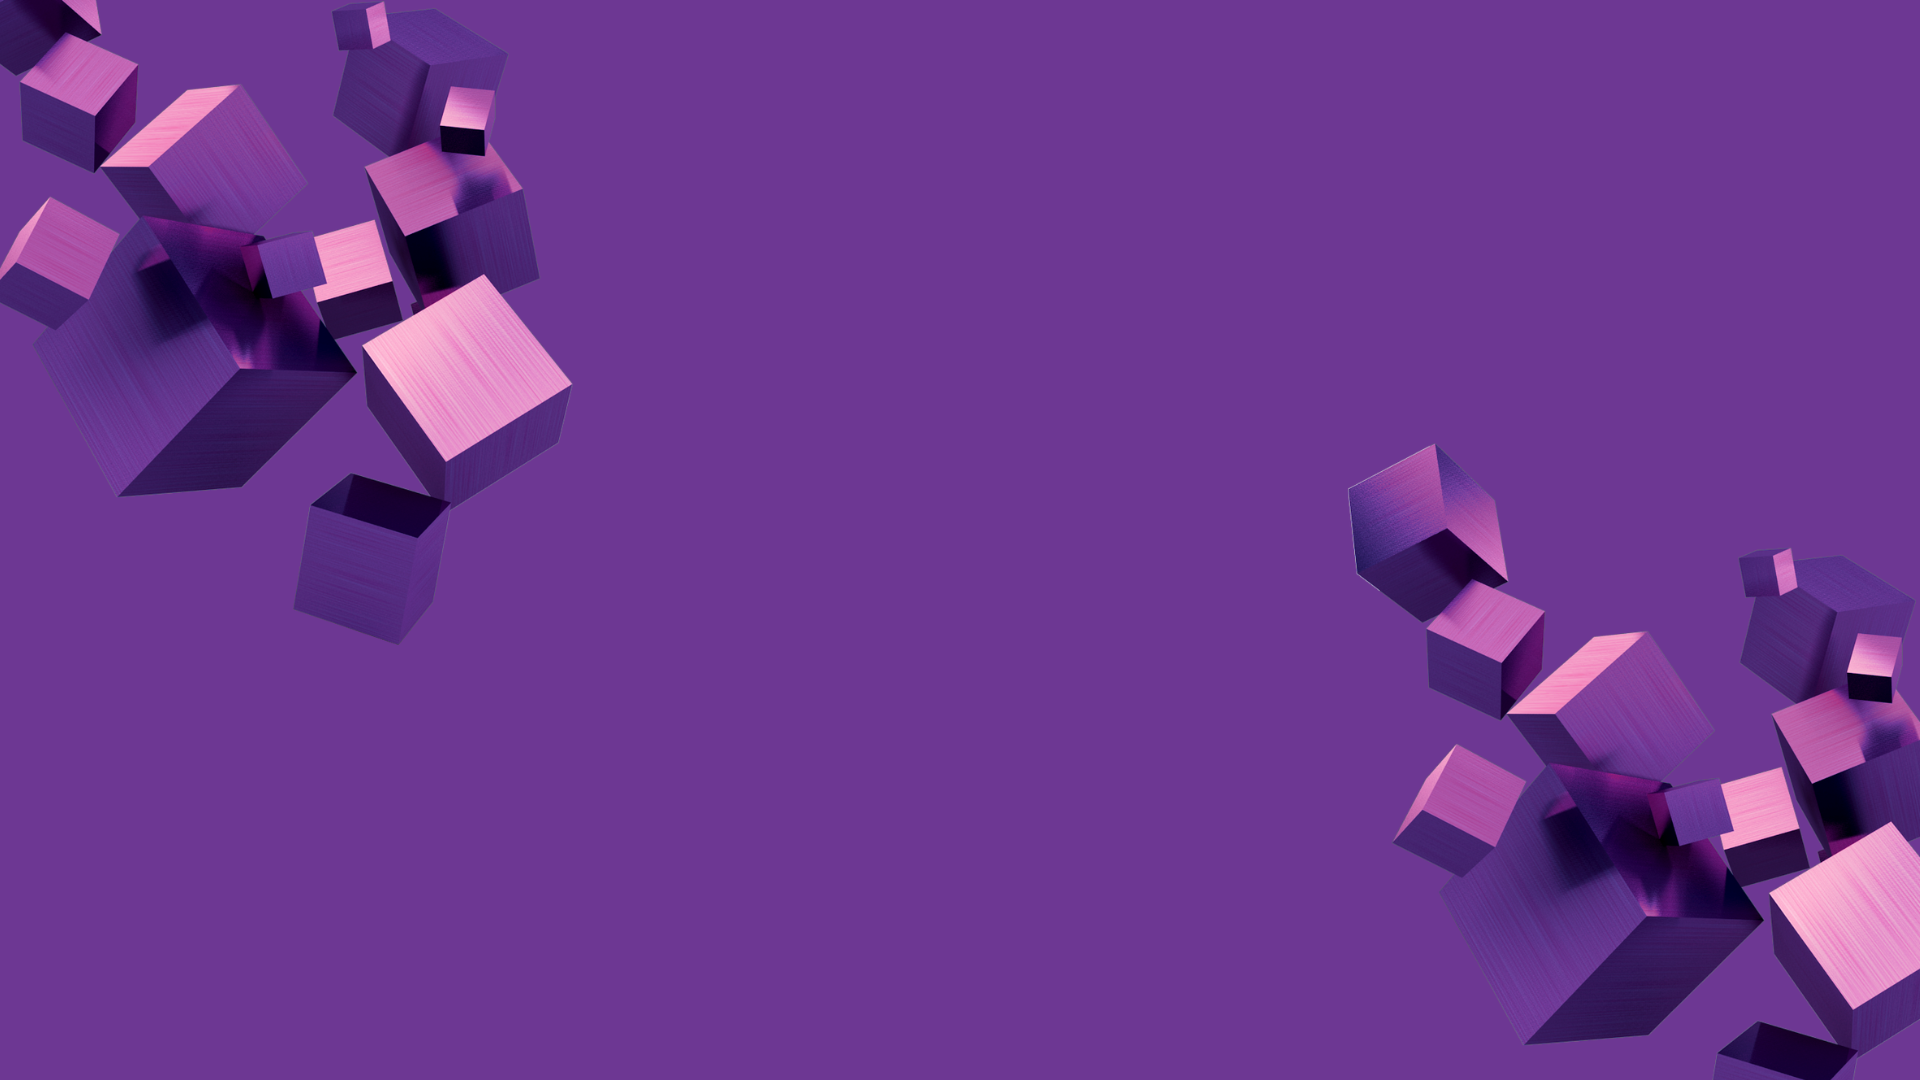
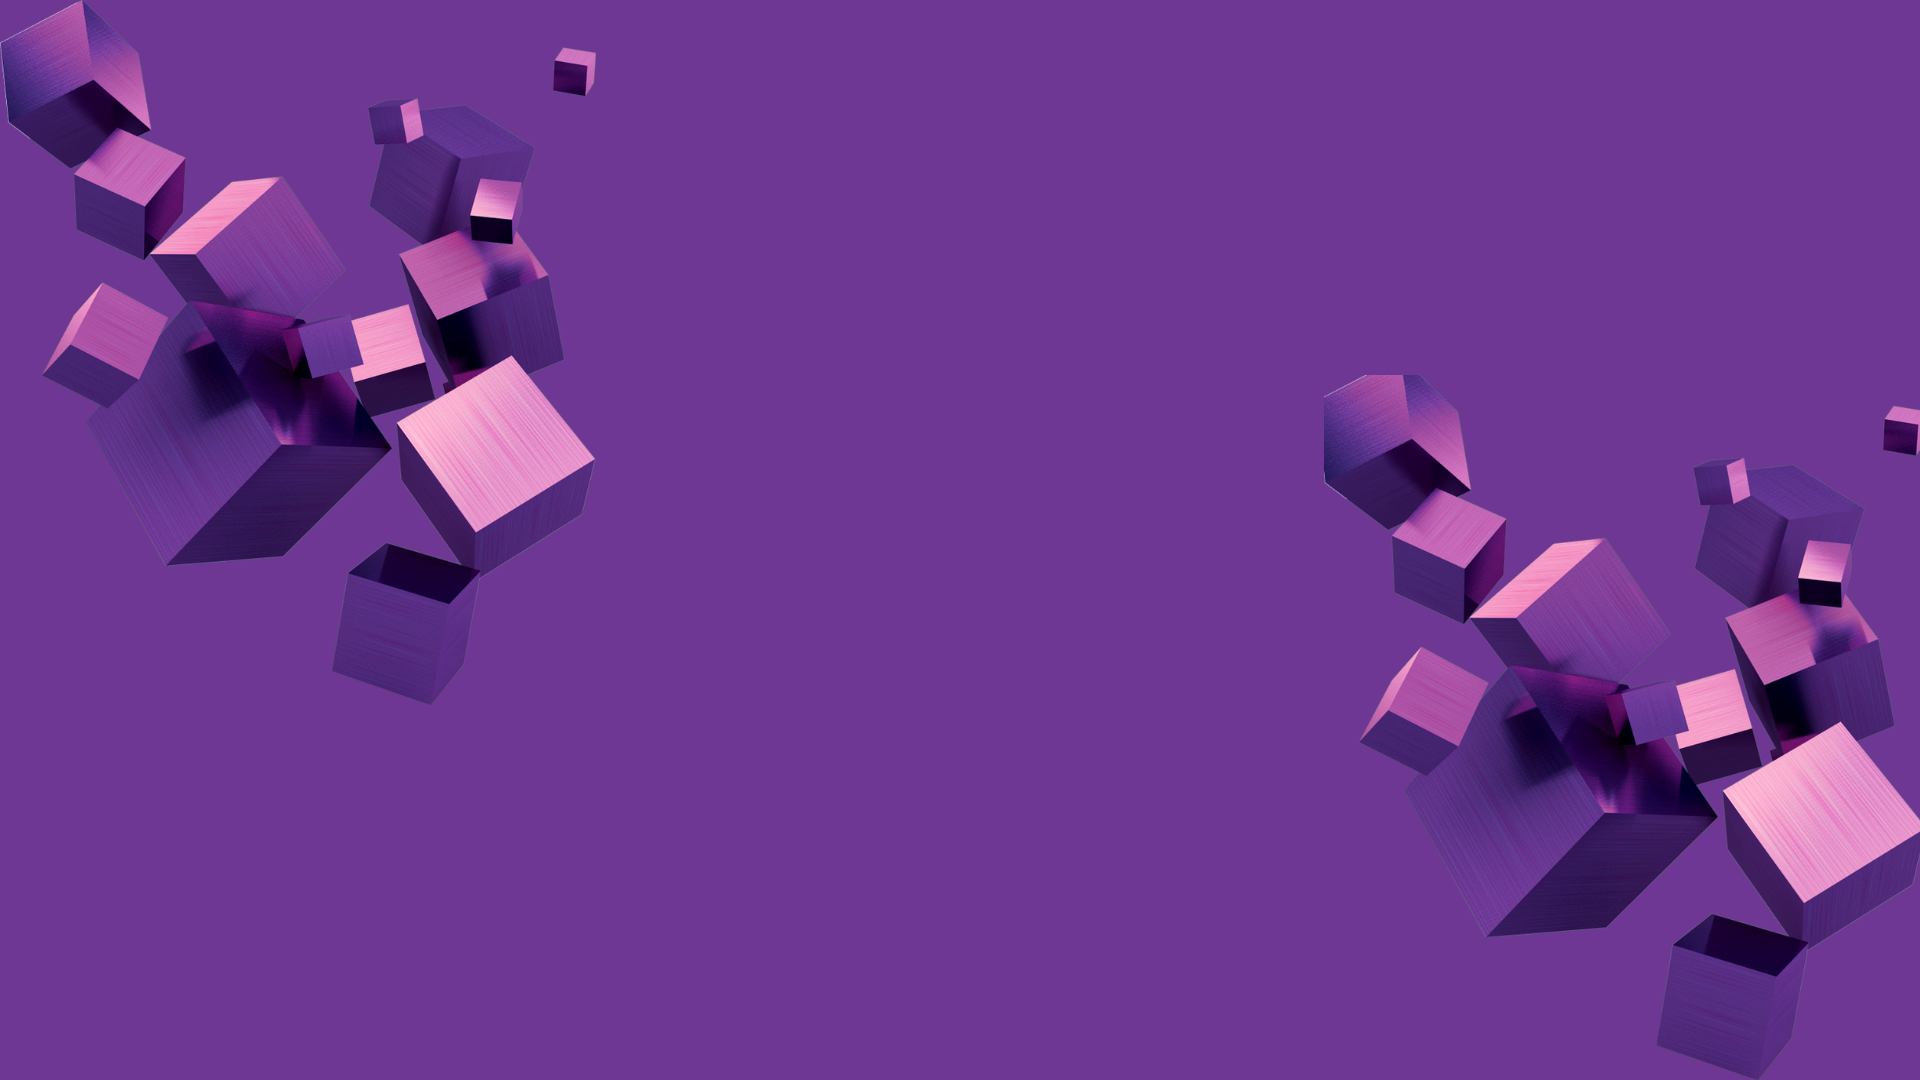
blog y fondo-hero

diff --git a/html/index.html b/html/index.html
@@ -31,8 +31,8 @@
         <div class="hero-content">
             <div class="hero-text">
                 <h1>Brithanny Arguello Lara</h1>
-                <p>Ingeniera en Computación</p>
-                <p>Soy una estudiante del Instituto Tecnológico de Costa Rica y estoy cursando el sexto semestre de Ingeniería en Computación. Me gusta aprender y busco expandir mis conocimientos en áreas de desarrollo web y backend.</p>
+                <p class="career"><strong>Estudiante de Ingeniería en Computación</strong></p>
+                <p>Soy una estudiante de ingeniería en computación con pasión por el desarrollo web y desarrollo de backend. Me encanta aprender nuevas tecnologías y hablidades para aplicar ese conocimiento en proyectos tecnológicos eficientes.</p>
             </div>
             <img src="../img/perfil.jpg" alt="Fotografía personal" class="hero-image">
         </div>
@@ -197,12 +197,13 @@
                     <div class="blog-card">
                         <div class="blog-content">
                             <div class="blog-image">
-                                <img src="/placeholder.svg?height=300&width=400&text=Post+1" alt="Imagen del blog 1">
-                                <span class="blog-category">Lorem</span>
+                                <img src="../img/img-entrada1.jpg" alt="Imagen del blog 1">
+                                <span class="blog-category">Crecimiento</span>
                             </div>
                             <div class="blog-text">
-                                <h3>Lorem ipsum dolor sit.</h3>
-                                <p class="blog-excerpt">Lorem ipsum dolor sit amet consectetur, adipisicing elit. Ratione sit numquam esse praesentium odit ipsam. Exercitationem ad, a eaque labore laudantium cumque qui fuga fugiat voluptate optio, voluptatem deleniti neque?</p>
+                                <h3>Así me enamoré de mi carrera.</h3>
+                                <p class="blog-excerpt">Pequeño resumen de mi proceso como estudiante de igneniería en computación y de como terminé siendo conquistada por la computación a pesar de haber entrado insegura y con miles de dudas a la carrera.
+                                </p>
                                 <a href="../html/entrada1.html" class="read-more">Leer más</a>
                             </div>
                         </div>

diff --git a/css/hero.css b/css/hero.css
@@ -3,7 +3,7 @@
     align-items: center;
     justify-content: center;
     height: 100vh;
-    background-image: url('../img/fondo-hero.png');
+    background-image: url('../img/prueba3.png');
     background-size: cover;
     background-position: center;
     padding: 0 20px;
@@ -17,25 +17,39 @@
 }
 
 .hero-image {
-    width: 250px;
+    width: 400px;
     height: auto;
     border-radius: 50%;
-    box-shadow: 0 2px 4px rgba(0, 0, 0, 0.1);
+    box-shadow: 0 2px 10px rgba(0, 0, 0, 0.3);
+    /* Sombra más larga */
     margin-left: 20px;
 }
 
 .hero-text {
-    max-width: 600px;
+    max-width: 650px;
+    text-align: justify;
+    padding: 20px;
+    border-radius: 10px;
 }
 
-.hero-text h1 {
-    font-size: 2.5em;
-    color: #270533;
+.hero-text .career {
+    display: inline-block;
+    background-color: #270533;
+    color: #fff;
+    padding: 5px 10px;
+    border-radius: 5px;
     margin-bottom: 10px;
 }
 
+.hero-text h1 {
+    font-size: 3.3em;
+    color: #270533;
+    margin-bottom: 30px;
+    text-shadow: 2px 2px 2px rgba(0, 0, 0, 0.3);
+}
+
 .hero-text p {
-    font-size: 1.2em;
+    font-size: 1.5em;
     color: #270533;
     margin-bottom: 10px;
 }
@@ -54,14 +68,6 @@
         margin-bottom: 20px;
         width: 300px;
     }
-
-    .hero-text h1 {
-        font-size: 2em;
-    }
-
-    .hero-text p {
-        font-size: 1em;
-    }
 }
 
 /* Laptops (1024px hasta 1439px) */
@@ -73,36 +79,7 @@
 
     .hero-image {
         margin-left: 20px;
-        width: 300px;
-    }
-
-    .hero-text h1 {
-        font-size: 2.2em;
-    }
-
-    .hero-text p {
-        font-size: 1.1em;
-    }
-}
-
-/* Computadoras de escritorio (1440px y más) */
-@media (min-width: 1440px) {
-    .hero-content {
-        flex-direction: row;
-        text-align: left;
-    }
-
-    .hero-image {
-        margin-left: 20px;
-        width: 350px;
-    }
-
-    .hero-text h1 {
-        font-size: 2.5em;
-    }
-
-    .hero-text p {
-        font-size: 1.2em;
+        width: 400px;
     }
 }
 
@@ -121,13 +98,5 @@
 
     .hero-text {
         max-width: 100%;
-    }
-
-    .hero-text h1 {
-        font-size: 2em;
-    }
-
-    .hero-text p {
-        font-size: 1em;
     }
 }

diff --git a/css/acerca.css b/css/acerca.css
@@ -16,10 +16,11 @@
 #acerca p {
     color: #f3f4f4;
     margin-bottom: 20px;
-    text-align: justify;
+    text-align: center;
     justify-content: space-evenly;
     margin-left: 250px;
     margin-right: 250px;
+    font-size: 20px;
 }
 
 #acerca section {

diff --git a/css/blog.css b/css/blog.css
@@ -141,14 +141,10 @@
     }
 
     .blog-image {
-        width: 40%;
+        width: 35%;
     }
 
     .blog-image img {
         height: 100%;
-    }
-
-    .blog-text {
-        width: 60%;
     }
 }
